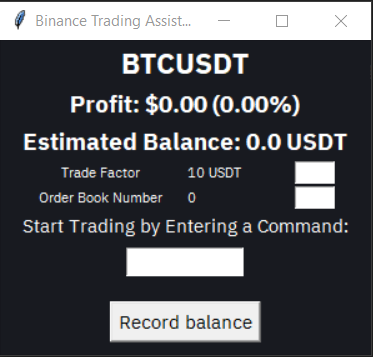
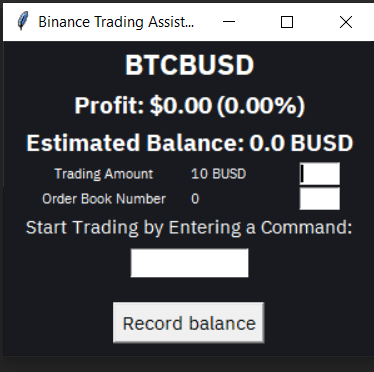
changed and added more info in readme.md

diff --git a/spot.py b/spot.py
@@ -52,7 +52,7 @@ class Spot():
 
         symbol_label = tkinter.Label(text=self.symbol, font=FONT_LARGE, bg=BG_COLOR, fg="white")
         symbol_label.grid(columnspan=3)
-        
+
         self.profit_label = tkinter.Label(text="Profit: $0.00 (0.00%)", font=FONT_MID_LARGE, bg=BG_COLOR, fg="white")
         self.profit_label.grid(columnspan=3)
 
@@ -60,7 +60,7 @@ class Spot():
         self.total_balance_label.grid(columnspan=3)
 
         trading_amount_row_num = 4
-        trading_amount_label = tkinter.Label(text="Trade Factor", font=FONT_SMALL, bg=BG_COLOR, fg="white")
+        trading_amount_label = tkinter.Label(text="Trading Amount", font=FONT_SMALL, bg=BG_COLOR, fg="white")
         trading_amount_label.grid(column=0, row=trading_amount_row_num)
         self.trading_amount_display = tkinter.Label(text=f"{self.trading_amount} {self.trading_currency}", font=FONT_SMALL, bg=BG_COLOR, fg="white")
         self.trading_amount_display.grid(column=1, row=trading_amount_row_num, sticky="w")
@@ -102,7 +102,7 @@ class Spot():
             except ValueError:
                 self.status_label.config(text="ValueError. Please enter a number.")
 
-    
+
     def update_order_book_num(self, event: tkinter.Event):
         order_book_num = event.widget.get()
         if order_book_num != "":
@@ -221,7 +221,7 @@ class Spot():
             self.status_label.config(text=client_error.error_message)
         except binance.error.ServerError as server_error:
             self.status_label.config(text=server_error.message)
-        
+
         for order in open_orders:
             self.crypto_balance += (float(order["origQty"]) - float(order["executedQty"]))
 
@@ -251,10 +251,10 @@ class Spot():
             if hist["orderStatus"] == "SUCCESS" and ((self.crypto in {from_asset, to_asset}) or (self.flat in {from_asset, to_asset})):
                 from_amount = hist["fromAmount"]
                 to_amount = hist["toAmount"]
-                
+
                 logs.append(f"Converted {from_amount} {from_asset} to {to_amount} {to_asset}")
         return logs
-    
+
     def get_transfer_history(self, last_access_time):
         logs = []
         try:
@@ -280,7 +280,7 @@ class Spot():
                     logs.append(f"{amount} {asset} transferred from cross margin to spot account")
         return logs
 
-    def get_deposit_history(self, last_access_time):        
+    def get_deposit_history(self, last_access_time):
         logs = []
         try:
             dep_hist = self.client.fiat_order_history(transactionType=0, beginTime=last_access_time, endTime=round(time()*1000))["data"]
@@ -295,7 +295,7 @@ class Spot():
             if fiat_currency == self.fiat:
                 amount = float(deposit["amount"]) - float(deposit["totalFee"])
                 logs.append(f"Deposited {amount} {fiat_currency}")
-                
+
         for withdraw in withdraw_hist:
             fiat_currency = withdraw["fiatCurrency"]
             if fiat_currency == self.fiat:
@@ -377,7 +377,7 @@ class Spot():
                 fg=LOSS_COLOR)
         else:
             self.profit_label.config(text="Profit: $0.00 (0.00%)", fg="white")
-    
+
     def update_info(self):
         while 1:
             self.update_profit()

diff --git a/trade_assister.py b/trade_assister.py
@@ -23,7 +23,7 @@ class App():
         self.margin_button = tkinter.Button(text="Margin", font=FONT_MEDIUM, command=lambda: self.check_record("Margin"))
         self.margin_button.config(state="disabled") # delete this after completing margin.py
         self.margin_button.grid(column=1, row=1, pady=10)
-        
+
     def check_record(self, trading_mode):
         self.trading_mode = trading_mode
         self.status_label = tkinter.Label(text="Checking record file...", font=FONT_MEDIUM, bg=BG_COLOR, fg="white")
@@ -137,7 +137,7 @@ class App():
         self.symbol = self.crypto + self.fiat
         self.fiat_name_entry.delete(0, 'end')
         self.crypto_name_entry.delete(0, 'end')
-        
+
         try:
             match self.trading_mode:
                 case "Spot":

diff --git a/README.md b/README.md
@@ -12,23 +12,22 @@ This application was made to enable trading on binance using only keyboard.
 Margin Trading is not supported yet.
 
 ## Set Up
-Please install the IBM Plex Sans font by selecting all the .ttf files in IBM_Plex_Sans folder and pasting them into
-"C:\Windows\Fonts"
-
-Run trade_assister.py to start.
+1. Install the IBM Plex Sans font on your computer if you don't have it already installed, by selecting all the .ttf files in IBM_Plex_Sans folder and pasting them into "C:\Windows\Fonts"
+2. Run trade_assister.py to start.
 
 ## Assumptions
 - The user uses only one crypto pair for trading
 - The user's assets are contained only in Spot and Margin Accounts.
 
-## Information
+## Additional Information
 - The base fiat currency used in Record.xlsx is BUSD
+- Record.xlsx shows your overall trading history
 
 ### Commands
 - b - Buy
 - s - Sell
 - t - Change trading currency between fiat and crypto
-- c {1 ~ number of open orders} - Cancel an order. "c 1" or "c" will cancel the most recent created order and "c {number of current open orders}" will cancel the earliest created order.
+- c {1 ~ number of open orders} - Cancel an order. For example, "c 1" or "c" will cancel the most recently created order and "c {number of current open orders}" will cancel the oldest order.
 
 To update:
 - Trading Amount - Enter a number
